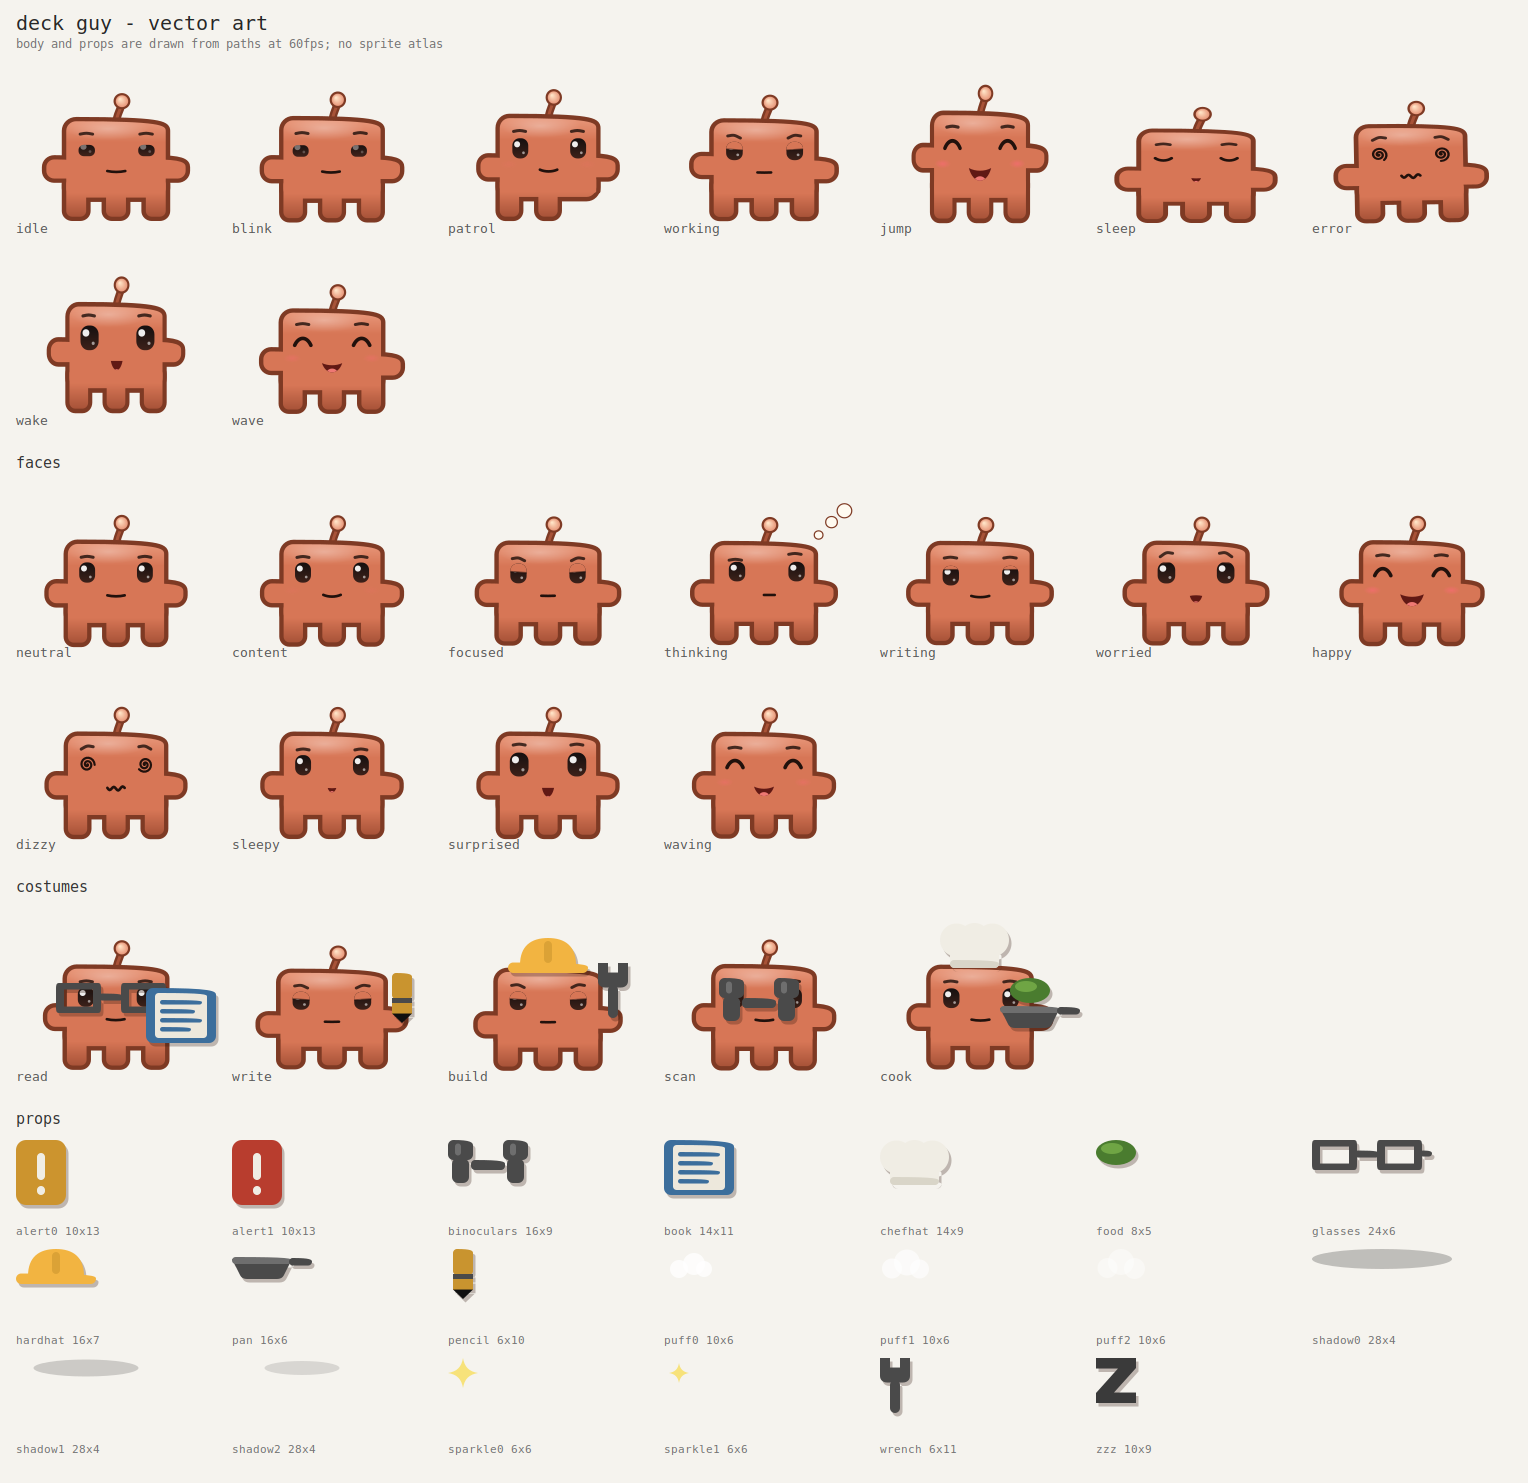
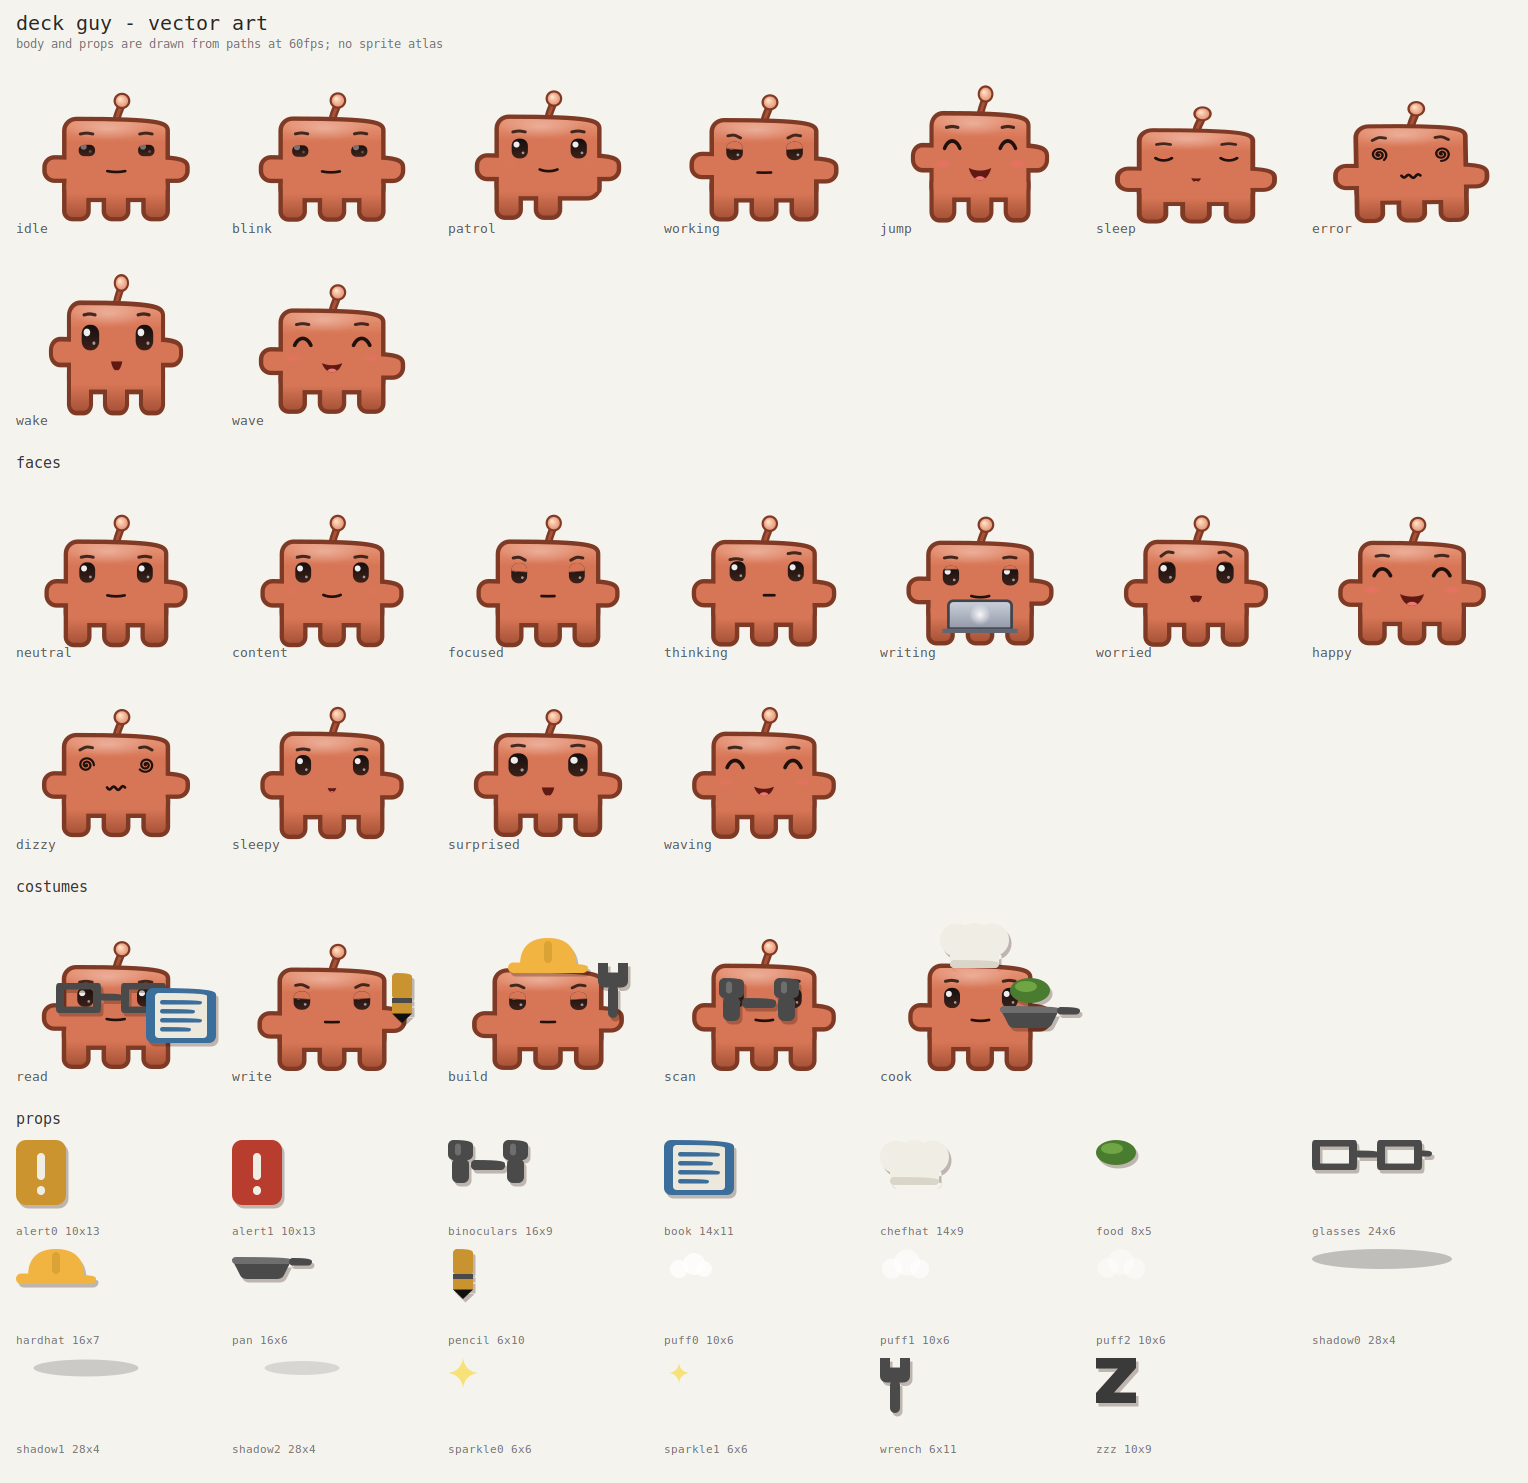
feat: thought cloud with typing dots replaces loose thinking dots
Three bare circles read as a glitch, especially flashing between quick
tool calls. Thinking now shows a puffy cloud with a trail to his head and
a typing-style row of dots pulsing in turn; it pops in, floats, and only
appears after 1.5s of thinking.

diff --git a/vector.py b/vector.py
@@ -81,6 +81,8 @@ ANIM_MOTION = {
                 "osc": [("arm_r_raise", 1.5, 1.7, "sine")]},
 }
 
+THINK_DELAY = 1.5     # secs of thinking before the cloud shows
+
 PARAMS = {
     #  name            rest    k     damping
     "stretch":        (1.0, 130.0, 0.68),
@@ -357,7 +359,8 @@ class Rig:
         self.particles = []          # [x, y, vx, vy, life, max_life, kind, colour, spin]
         self._phase = ""
         self._fidget_in = self._rand.uniform(12.0, 25.0)
-        self.thinking = 0.0          # 0..1 fade of the thought dots
+        self.thinking = 0.0          # 0..1 fade of the thought cloud
+        self._think_t = 0.0          # how long the face has been thinking
         self.writing = 0.0           # 0..1 fade of the laptop
 
         self.anim = None
@@ -465,8 +468,12 @@ class Rig:
                 self._fidget_in = self._rand.uniform(15.0, 35.0)
 
         # thought dots fade with the face's own expression
-        want = 1.0 if self.face.expression == "thinking" else 0.0
-        self.thinking += (want - self.thinking) * min(1.0, dt * 5.0)
+        # The cloud waits a beat: thinking between two quick tool calls lasts
+        # a fraction of a second, and a cloud flashing on and off at that rate
+        # read as a glitch rather than as thought.
+        self._think_t = self._think_t + dt if self.face.expression == "thinking" else 0.0
+        want = 1.0 if self._think_t > THINK_DELAY else 0.0
+        self.thinking += (want - self.thinking) * min(1.0, dt * (7.0 if want else 9.0))
         want = 1.0 if self.face.expression == "writing" else 0.0
         self.writing += (want - self.writing) * min(1.0, dt * 6.0)
 
@@ -676,22 +683,60 @@ class Rig:
         cr.restore()
 
     def _draw_thought(self, cr, facing):
-        """Three dots rising off his head while he thinks."""
-        a = self.thinking
+        """A thought cloud over his shoulder, with a typing-style row of dots.
+
+        Grows out of a two-puff trail from his head, floats a little, and the
+        dots inside pulse one after another - the one "thinking" sign people
+        already read without being told.
+        """
+        a = max(0.0, min(1.0, self.thinking))
         if a < 0.02:
             return
+        grow = 0.55 + 0.45 * (1.0 - (1.0 - a) ** 3)      # ease-out pop
+        float_y = math.sin(self.t * 1.6) * 0.35
+        cx, cy = 33.2, 4.6 + float_y
         cr.save()
-        for i in range(3):
-            bob = math.sin(self.t * 4.0 - i * 0.9) * 0.45
-            x = 31.0 + i * 2.6
-            y = 10.0 - i * 2.4 + bob
-            r = 0.75 + i * 0.3
+        cr.push_group()
+        # trail: two small puffs stepping up from his head to the cloud
+        for x, y, r in ((27.6, 10.6, 0.55), (29.6, 8.6, 0.85)):
+            cr.new_sub_path()
+            cr.arc(x, y + float_y * 0.5, r * grow, 0, math.tau)
+        # the cloud: overlapping puffs around an ellipse
+        cr.save()
+        cr.translate(cx, cy)
+        cr.scale(grow, grow)
+        puffs = ((-3.0, 0.4, 1.9), (-1.2, -0.9, 2.2), (1.2, -0.9, 2.1),
+                 (3.0, 0.3, 1.8), (1.4, 1.3, 1.7), (-1.4, 1.3, 1.7))
+        for x, y, r in puffs:
+            cr.new_sub_path()
             cr.arc(x, y, r, 0, math.tau)
-            cr.set_source_rgba(*OUTLINE, a)
-            cr.set_line_width(0.5)
-            cr.stroke_preserve()
-            cr.set_source_rgba(1, 0.98, 0.94, a)
+        cr.restore()
+        path = cr.copy_path()
+        # outline first, fill over it: the puffs merge into one shape
+        cr.set_source_rgb(*OUTLINE)
+        cr.set_line_width(1.1)
+        cr.stroke()
+        cr.append_path(path)
+        cr.set_source_rgb(1.0, 0.985, 0.955)
+        cr.fill()
+        # soft top light, like the body
+        g = cairo.LinearGradient(0, cy - 2.6 * grow, 0, cy + 2.2 * grow)
+        g.add_color_stop_rgba(0, 1, 1, 1, 0.0)
+        g.add_color_stop_rgba(1, 0.86, 0.80, 0.74, 0.35)
+        cr.append_path(path)
+        cr.set_source(g)
+        cr.fill()
+        # typing dots, pulsing in turn
+        for i in range(3):
+            phase = (self.t * 2.2 - i * 0.22) % 1.0
+            lift = math.sin(min(1.0, phase * 2.0) * math.pi) if phase < 0.5 else 0.0
+            x = cx + (i - 1) * 1.9 * grow
+            y = cy + 0.15 - lift * 0.55
+            cr.arc(x, y, (0.58 + lift * 0.14) * grow, 0, math.tau)
+            cr.set_source_rgba(*OUTLINE, 0.55 + lift * 0.45)
             cr.fill()
+        cr.pop_group_to_source()
+        cr.paint_with_alpha(a)
         cr.restore()
 
     def _draw_laptop(self, cr):
